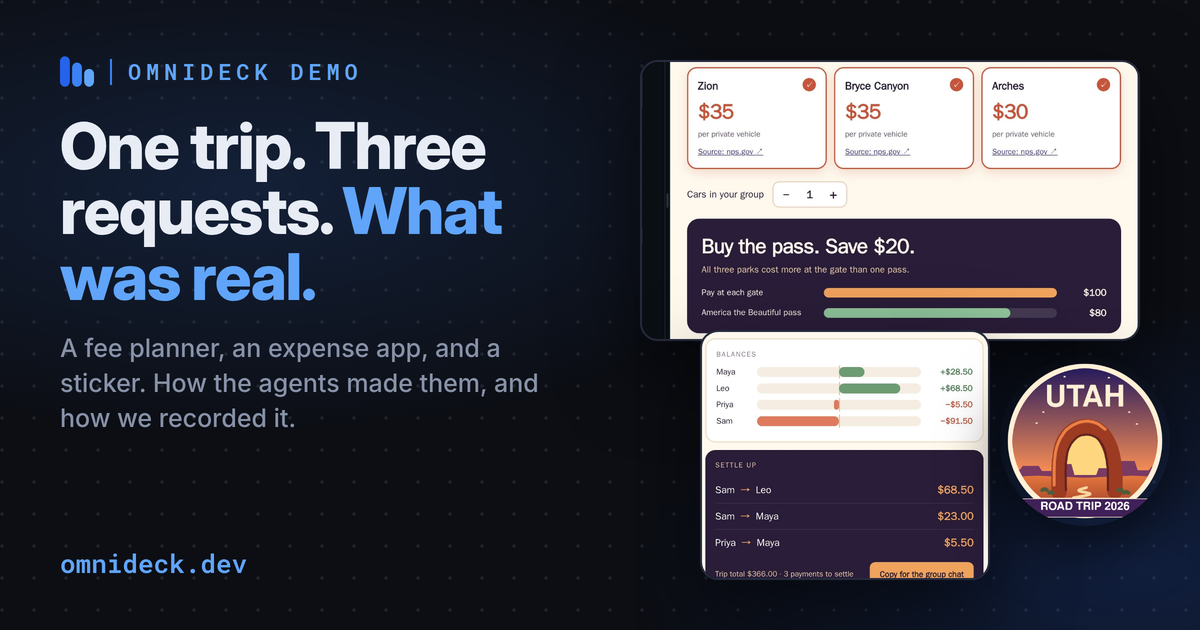
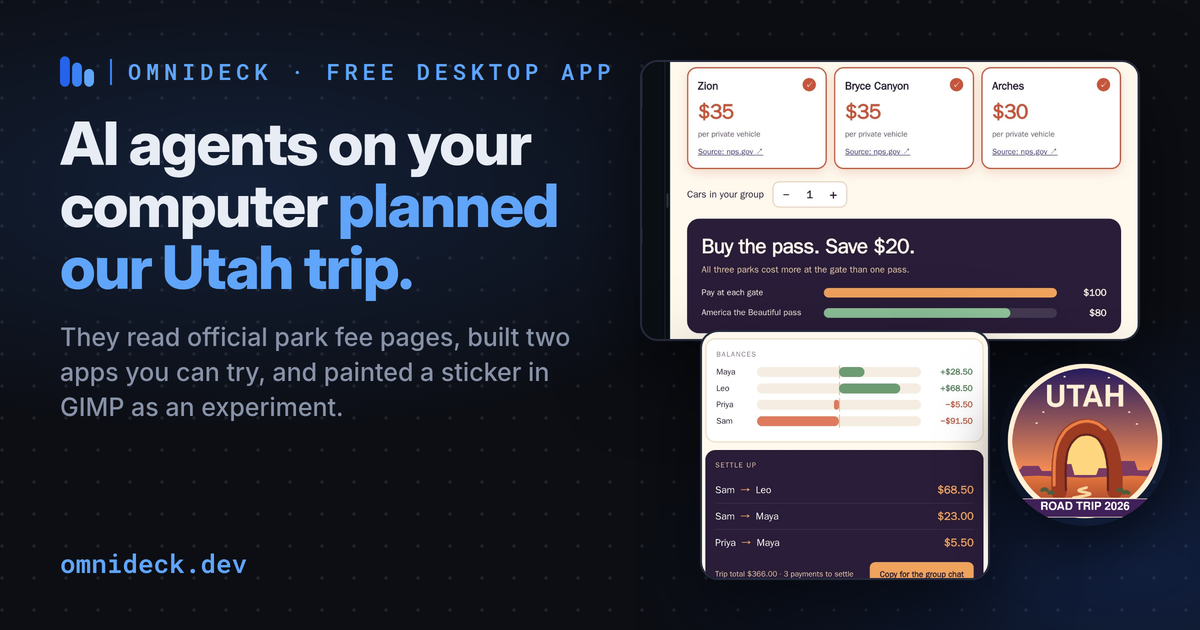
Clarify the Utah showcase headline and product offer (#86)

Changed region(s): [[0.0308, 0.181, 0.4625, 0.4825], [0.0308, 0.5127, 0.4933, 0.6937], [0.2467, 0.0905, 0.5242, 0.1508]]

diff --git a/content/blog/utah-trip-agent-demo.md b/content/blog/utah-trip-agent-demo.md
@@ -1,17 +1,17 @@
 +++
-title    = "One Trip, Three Requests: What Was Real in Our omnideck Demo"
+title    = "AI Agents on Your Computer Planned Our Utah Trip"
 date     = 2026-10-03
 draft    = false
 tags     = ["ai-agents", "open-source", "demo"]
 template = "templates/types/blog.html"
 
 [extra]
-description    = "We asked omnideck to plan a Utah parks trip: research the fees, build an expense app, and paint a sticker. Here is what the agents made, what you can try yourself, and exactly how the demo was recorded."
+description    = "omnideck is a free desktop app that puts AI agents to work on your computer. We asked it to help plan a Utah parks trip. Its agents read the official fee pages, built two apps you can try, and painted a sticker in GIMP as an experiment."
 author         = "Larry Foulkrod"
 featured_image = "/images/utah-trip/featured.png"
 +++
 
-We made a three-minute demo of omnideck planning a weekend in Utah's national parks. Four friends, three requests, and each one ends with something you can keep. This post shows the results, links them so you can try them, and explains how the demo was made. We think that last part matters as much as the results.
+omnideck is a free, open source desktop app that puts AI agents to work on your own computer. The agents can browse the web, build small apps, and check their own work. To show what that looks like, we asked omnideck to help plan a weekend in Utah's national parks. Four friends, three requests, and each one ends with something you can keep. This post shows the results, links two of them so you can try them, and explains how the demo was made.
 
 <iframe width="560" height="315" src="https://www.youtube.com/embed/kzp_lSqwxaA" title="omnideck demo: research, build an app, and paint in GIMP" frameborder="0" allow="accelerometer; clipboard-write; encrypted-media; gyroscope; picture-in-picture; web-share" referrerpolicy="strict-origin-when-cross-origin" allowfullscreen></iframe>
 
